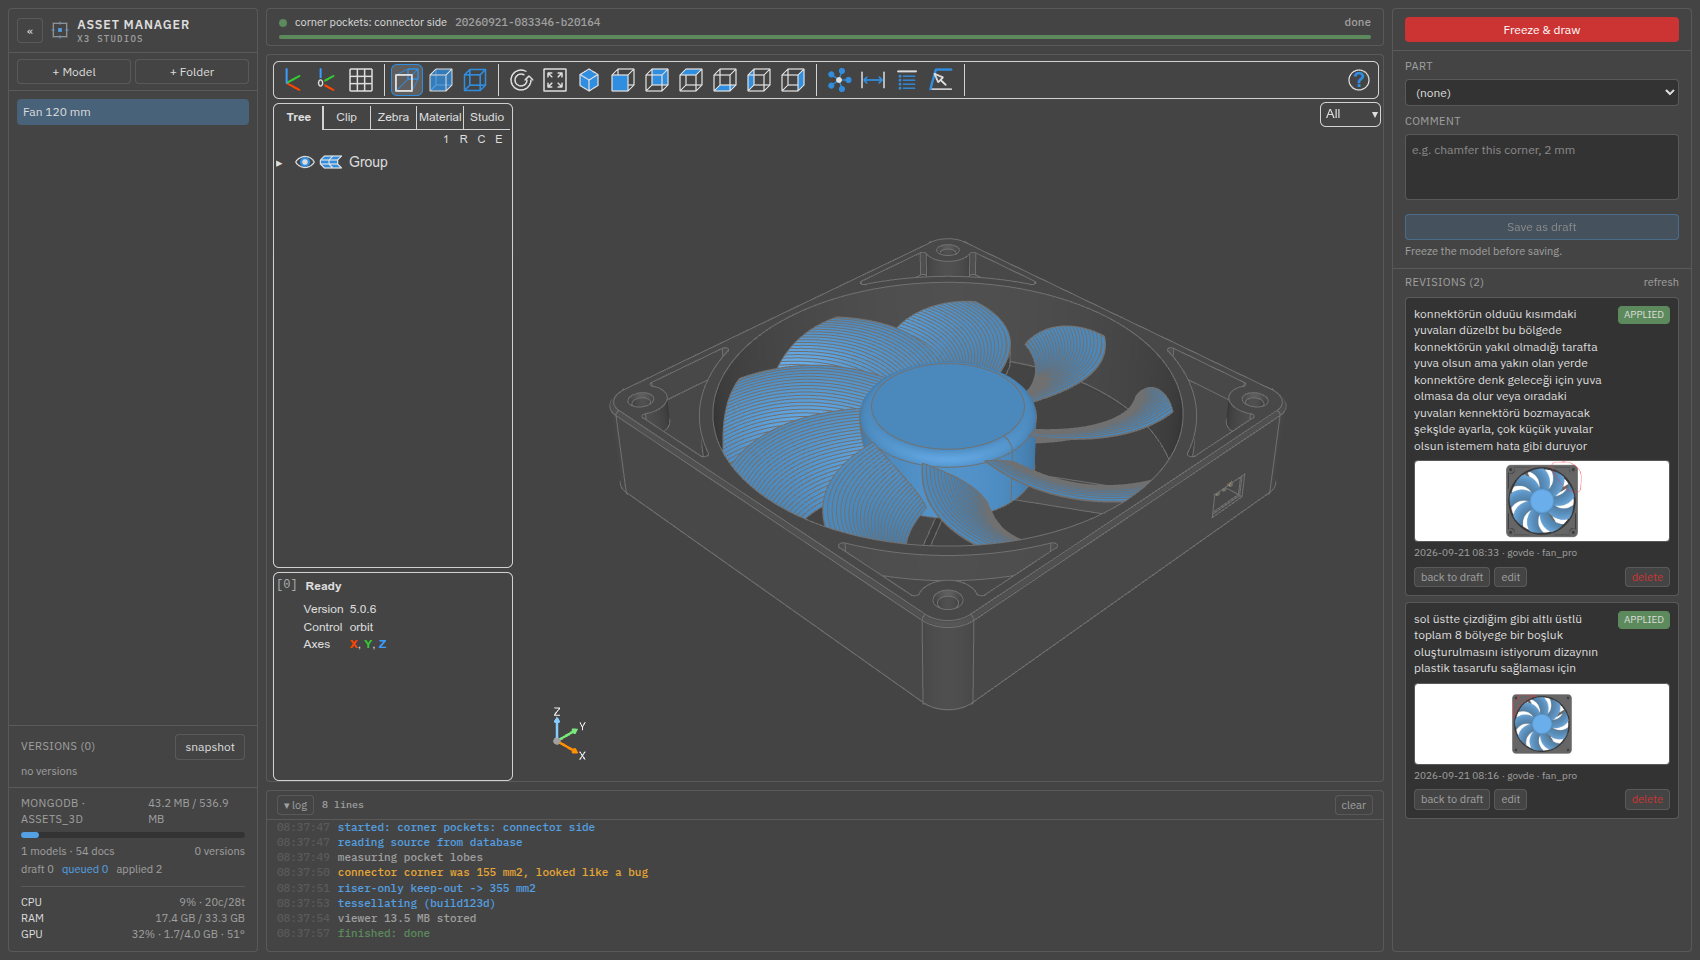
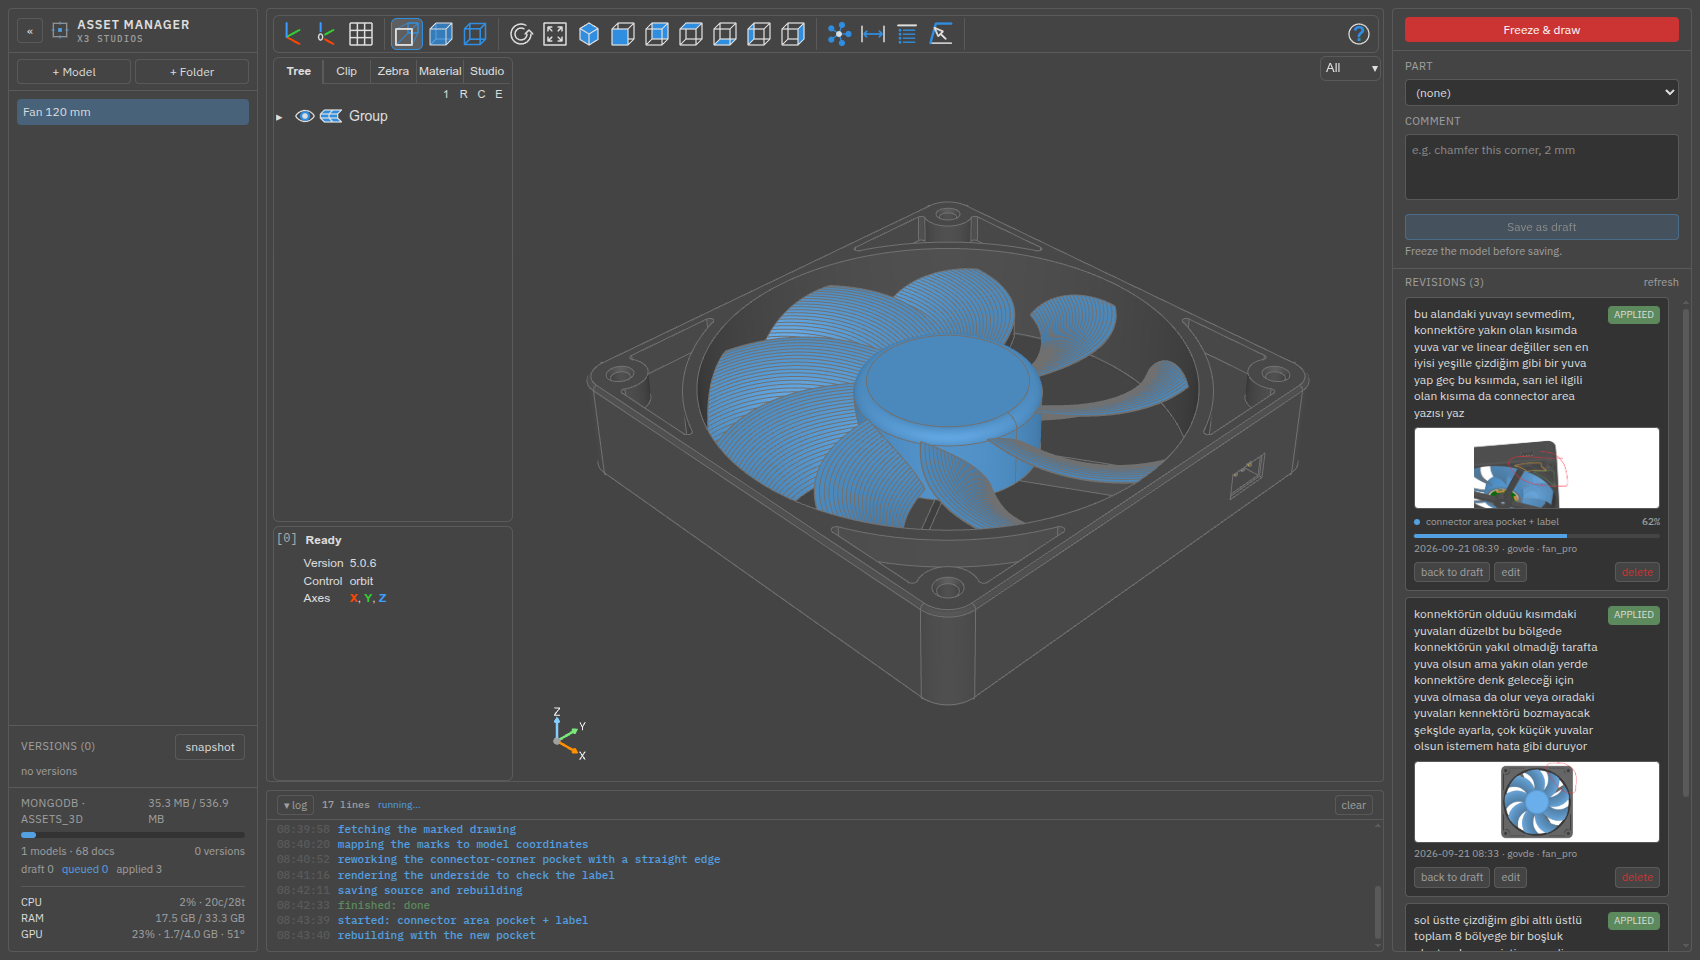
Connector-corner pocket, area label, and two UI fixes
Applies the queued revision. The connector corner's bottom pocket was cut
around the cable riser, which gave it an irregular outline; it is now bounded
by a straight radial edge at 48 degrees, so the connector half of that corner
is left flat. That flat area carries an engraved CONNECTOR AREA label.

The label first ran radially and crossed the air channel - on a plane whose
local x is -X the tangential rotation is +(90 - angle), not -(90 - angle).

UI:
- the run progress bar moved out of a detached top strip and into the card of
  the revision it belongs to
- the viewer outlines 52 of its panels, tabs and inputs in #d3d3d3, which read
  as white frames; all of them are pulled to our line grey. The accent borders
  use other colours and are untouched.

diff --git a/frontend/src/app/editor/editor.html b/frontend/src/app/editor/editor.html
@@ -172,33 +172,8 @@
     </div>
   }
 
-  <!-- CENTRE: viewer, with the run bar above and the log below -->
+  <!-- CENTRE: viewer with the log below -->
   <div class="flex min-w-0 flex-1 flex-col gap-2">
-
-    <!-- Run progress: alive from the start of a revision until it finishes. -->
-    @if (run(); as rn) {
-      <div class="tcv-panel shrink-0 rounded px-3 py-1.5"
-           style="border: 1px solid var(--line)">
-        <div class="flex items-center gap-2 text-[11px]">
-          <span class="h-2 w-2 shrink-0 rounded-full"
-                [style.background]="rn.status === 'running' ? 'var(--accent)'
-                                  : rn.status === 'failed' ? 'var(--danger)' : 'var(--ok)'"></span>
-          <span class="truncate">{{ rn.title }}</span>
-          @if (rn.revision) {
-            <span class="mono shrink-0" style="color: var(--ink-dim)">{{ rn.revision }}</span>
-          }
-          <span class="mono ml-auto shrink-0" style="color: var(--ink-dim)">
-            {{ rn.status === 'running' ? (rn.percent | number:'1.0-0') + '%' : rn.status }}
-          </span>
-        </div>
-        <div class="mt-1 h-1 w-full overflow-hidden rounded" style="background: var(--surface-2)">
-          <div class="h-full transition-[width] duration-300"
-               [style.width.%]="rn.percent"
-               [style.background]="rn.status === 'failed' ? 'var(--danger)'
-                                 : rn.status === 'done' ? 'var(--ok)' : 'var(--accent)'"></div>
-        </div>
-      </div>
-    }
 
   <div #stage class="relative min-w-0 flex-1 overflow-hidden rounded"
        style="border: 1px solid var(--line)">
@@ -359,6 +334,30 @@
             <img [src]="imageUrl(r)" alt="revision drawing"
                  class="block h-20 w-full bg-white object-contain" loading="lazy">
           </button>
+          <!-- Progress belongs to the revision being worked on, so it lives
+               in that card rather than in a bar detached from it. -->
+          @if (run(); as rn) {
+            @if (rn.revision === r.id) {
+              <div class="mt-1.5">
+                <div class="flex items-center gap-1.5 text-[10px]">
+                  <span class="h-1.5 w-1.5 shrink-0 rounded-full"
+                        [style.background]="rn.status === 'running' ? 'var(--accent)'
+                                          : rn.status === 'failed' ? 'var(--danger)' : 'var(--ok)'"></span>
+                  <span class="truncate" style="color: var(--ink-dim)">{{ rn.title }}</span>
+                  <span class="mono ml-auto shrink-0" style="color: var(--ink-dim)">
+                    {{ rn.status === 'running' ? (rn.percent | number:'1.0-0') + '%' : rn.status }}
+                  </span>
+                </div>
+                <div class="mt-1 h-1 w-full overflow-hidden rounded"
+                     style="background: var(--surface)">
+                  <div class="h-full transition-[width] duration-300"
+                       [style.width.%]="rn.percent"
+                       [style.background]="rn.status === 'failed' ? 'var(--danger)'
+                                         : rn.status === 'done' ? 'var(--ok)' : 'var(--accent)'"></div>
+                </div>
+              </div>
+            }
+          }
           <div class="mt-1 text-[10px]" style="color: var(--ink-dim)">
             {{ r.created_at.slice(0, 16).replace('T', ' ') }}
             @if (r.part) { · {{ r.part }} }

diff --git a/frontend/src/styles.css b/frontend/src/styles.css
@@ -122,3 +122,19 @@ body {
 }
 /* Hashes, ids and figures read as data, not prose. */
 .mono { font-family: 'IBM Plex Mono', ui-monospace, monospace; }
+
+/* The viewer outlines 52 of its panels, tabs and inputs in #d3d3d3, which
+   reads as a white frame against our surfaces. Every one of them uses that
+   same grey, and the accent borders use other colours, so pulling just these
+   to our line colour is safe. */
+.tcv_cad_animation, .tcv_cad_help, .tcv_cad_info, .tcv_cad_toolbar,
+.tcv_cad_tree, .tcv_cad_zscale, .tcv_clip_input,
+.tcv_distance_measurement_panel, .tcv_dropdown-content, .tcv_filter_content,
+.tcv_filter_dropdown, .tcv_grid-content, .tcv_mat_editor,
+.tcv_mat_editor_path, .tcv_mat_editor_titlebar, .tcv_measure_header,
+.tcv_measure_subheader, .tcv_panel, .tcv_properties_measurement_panel,
+.tcv_round, .tcv_separator, .tcv_studio_background, .tcv_studio_environment,
+.tcv_studio_select, .tcv_studio_texture_mapping, .tcv_studio_tone_mapping,
+[class*="tcv_inp_value_"], [class*="tcv_tab"] {
+  border-color: var(--line) !important;
+}
